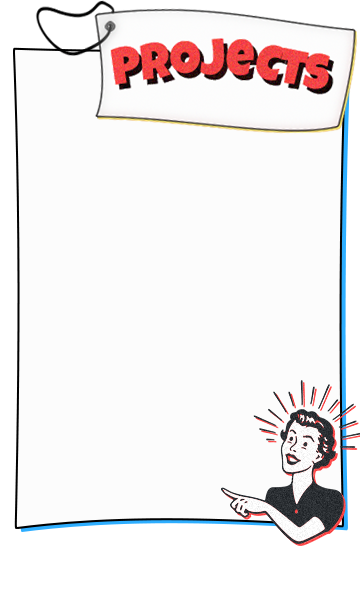
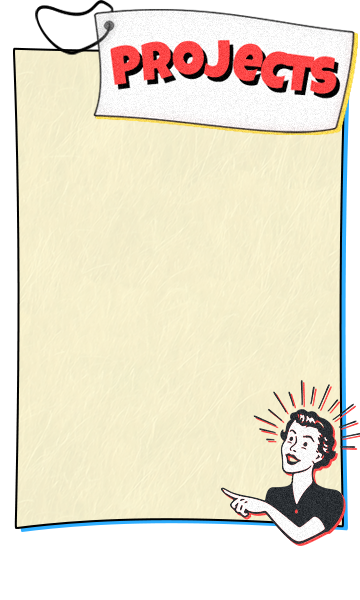
static mobile site done, artwork done

diff --git a/src/App.css b/src/App.css
@@ -159,10 +159,10 @@ hr {
     height: 30px;
   }
 
-  .space-three {
+  .space-three { /*  Functions as left padding */
     clear: left;
     float: left;
-    width: 1px;
+    width: 6px;
     height: 112px;
   }
 

diff --git a/src/view_comps/splash/Splash.js b/src/view_comps/splash/Splash.js
@@ -10,6 +10,7 @@ const Splash = observer((props) => {
         <hr />
             <AboutBarker />
             <ProjectCard />
+            <img src="/images/contactme.png"></img>
         </div>
     );
 });
